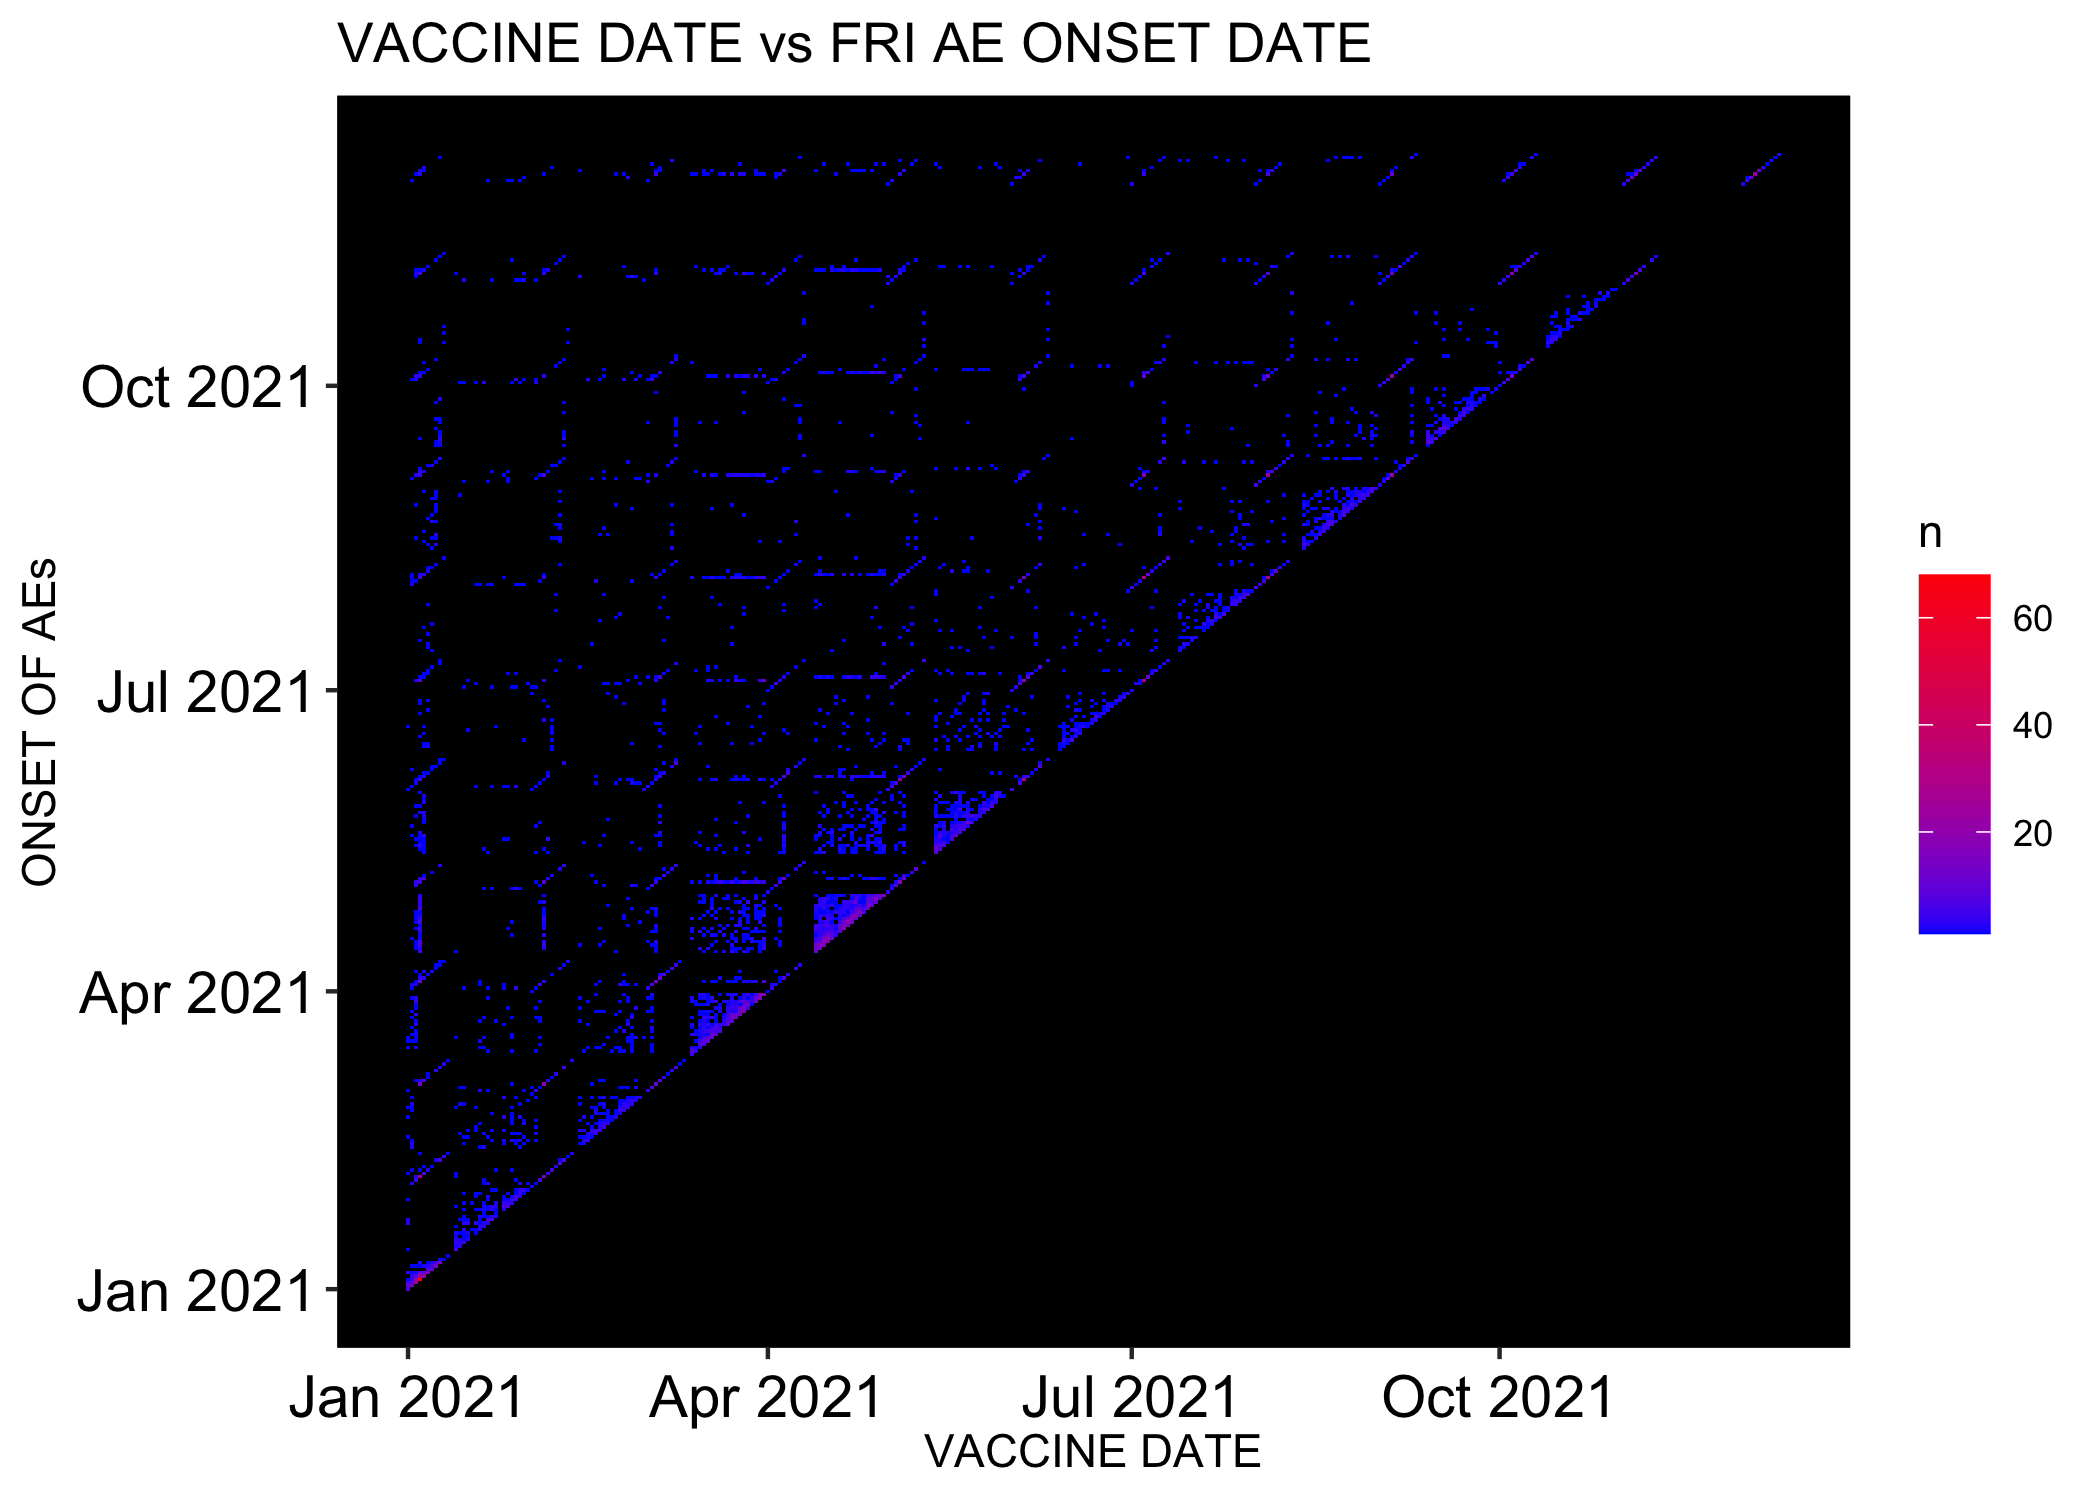
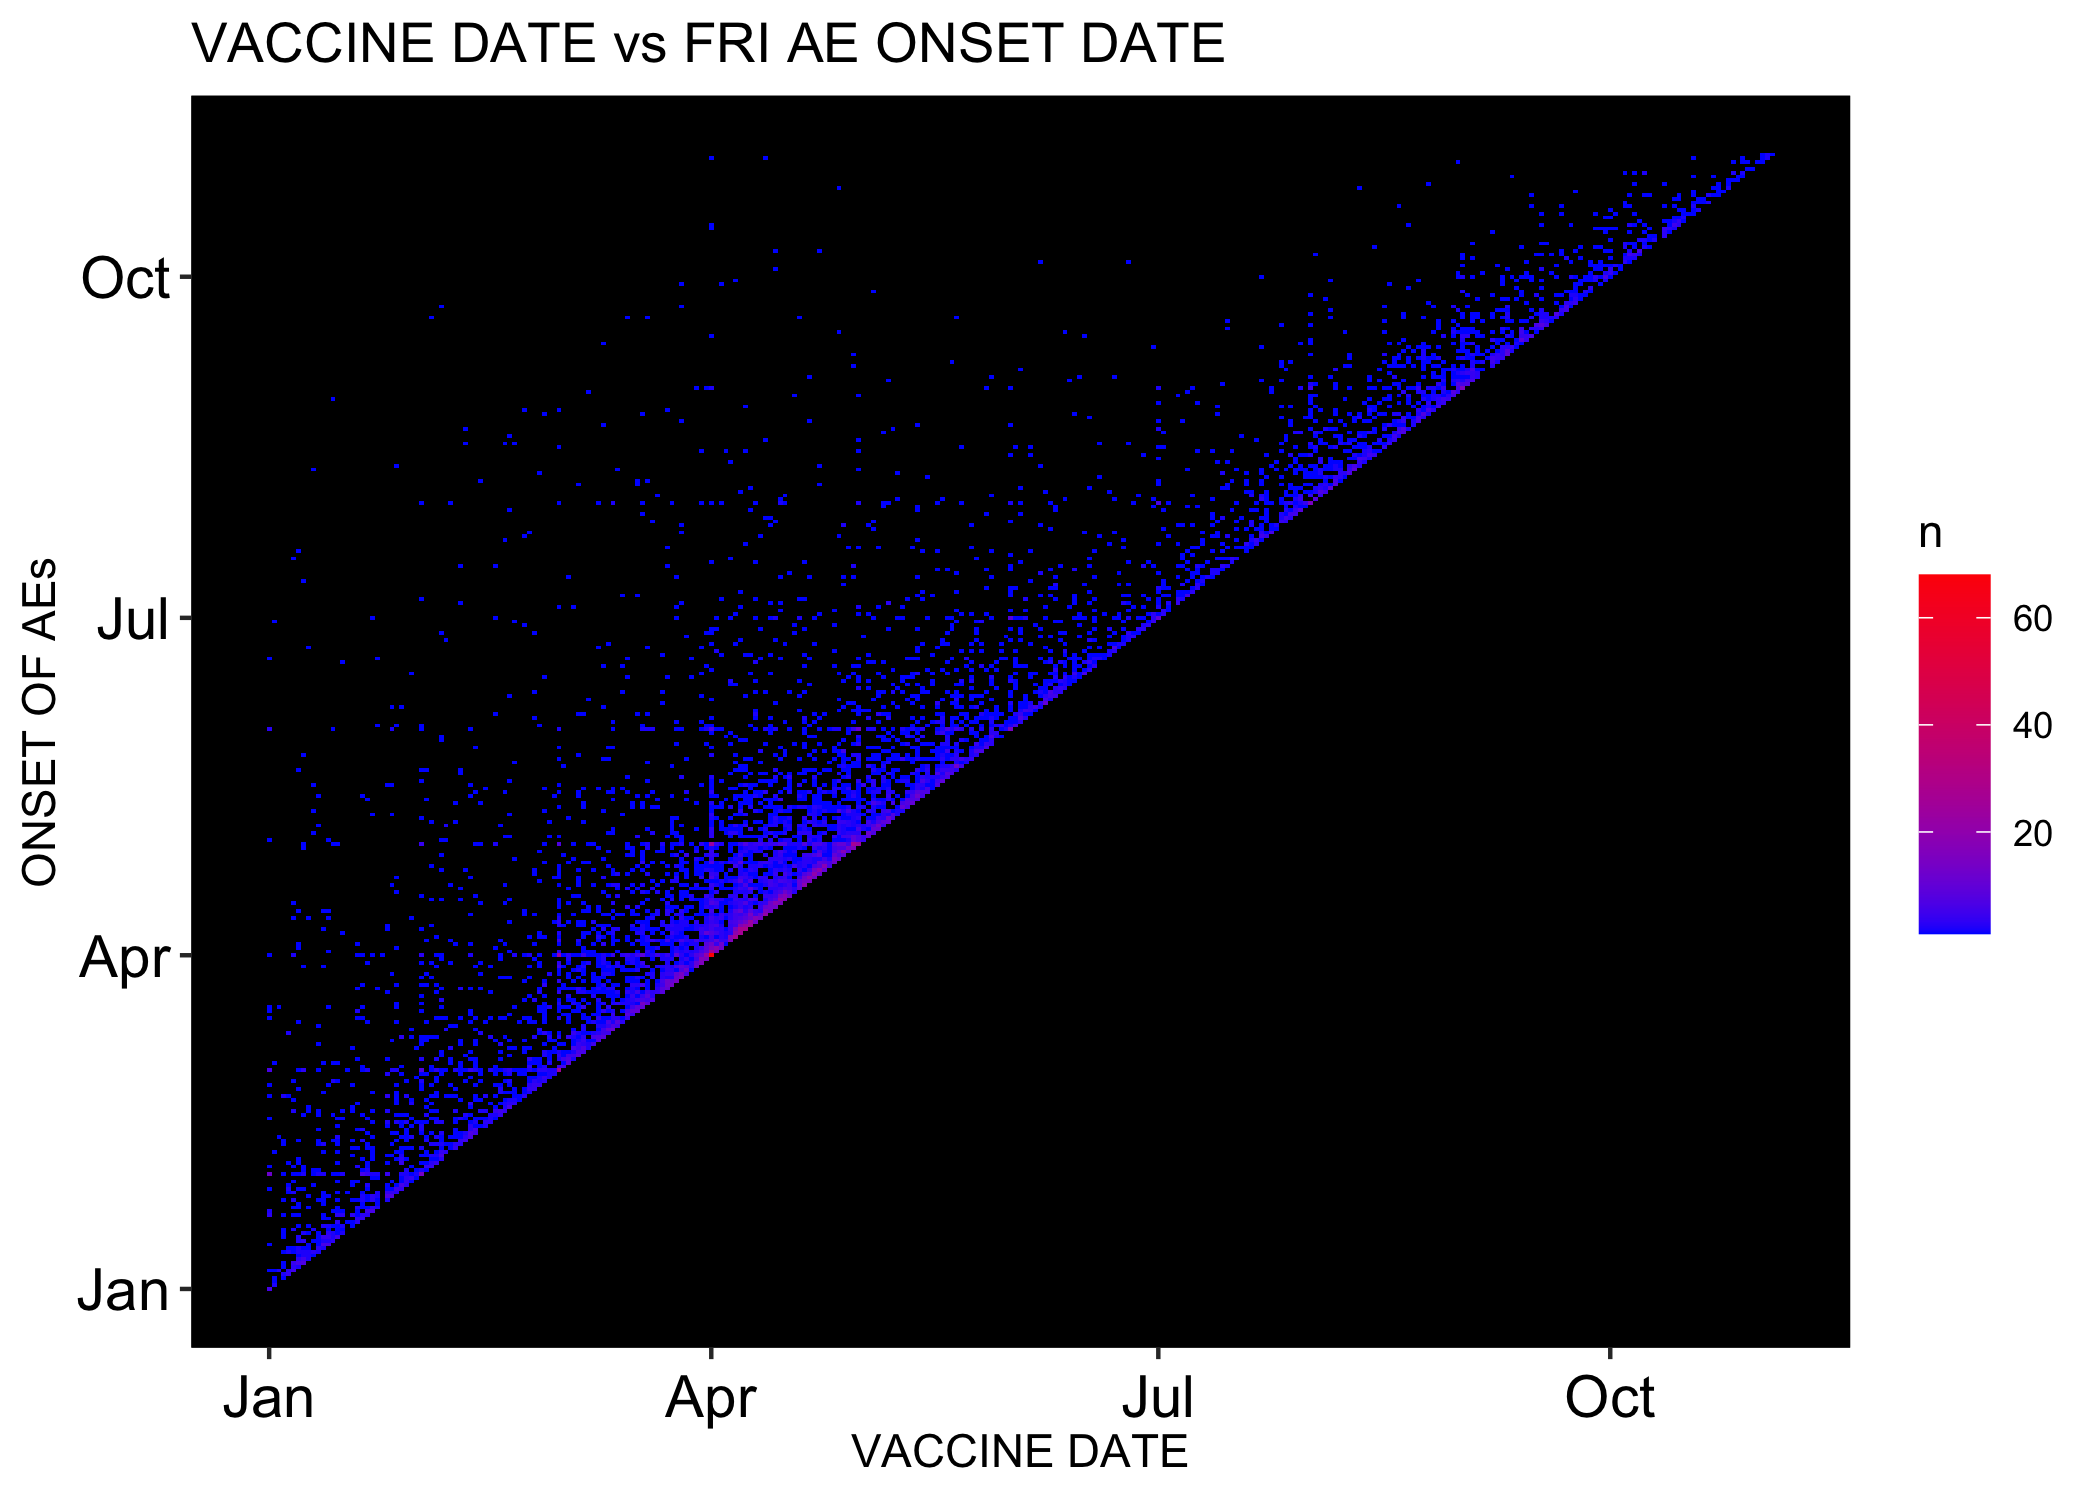
m

diff --git a/content/post/2020-12-01-r-rmarkdown/index.en.html b/content/post/2020-12-01-r-rmarkdown/index.en.html
@@ -155,9 +155,9 @@ Breakthrough COVID-19 case count AND PERCENTAGE of total ID count</p>
 <img src="Figs/unnamed-chunk-40-1.png" width="672" />
 <img src="Figs/unnamed-chunk-41-1.png" width="672" /></p>
 <div id="htmlwidget-1" style="width:672px;height:480px;" class="plotly html-widget"></div>
-<script type="application/json" data-for="htmlwidget-1">{"x":{"visdat":{"106dc6a1c47be":["function () ","plotlyVisDat"]},"cur_data":"106dc6a1c47be","attrs":{"106dc6a1c47be":{"labels":{},"values":{},"alpha_stroke":1,"sizes":[10,100],"spans":[1,20],"type":"pie"}},"layout":{"margin":{"b":40,"l":60,"t":25,"r":10},"title":"BREAKTHROUGH COVID-19 CASES BY MANUFACTURER","xaxis":{"showgrid":false,"zeroline":false,"showticklabels":false},"yaxis":{"showgrid":false,"zeroline":false,"showticklabels":false},"hovermode":"closest","showlegend":true},"source":"A","config":{"showSendToCloud":false},"data":[{"labels":["JANSSEN","MODERNA","PFIZER\\BIONTECH"],"values":[9.71,32.18,57.19],"type":"pie","marker":{"color":"rgba(31,119,180,1)","line":{"color":"rgba(255,255,255,1)"}},"frame":null}],"highlight":{"on":"plotly_click","persistent":false,"dynamic":false,"selectize":false,"opacityDim":0.2,"selected":{"opacity":1},"debounce":0},"shinyEvents":["plotly_hover","plotly_click","plotly_selected","plotly_relayout","plotly_brushed","plotly_brushing","plotly_clickannotation","plotly_doubleclick","plotly_deselect","plotly_afterplot","plotly_sunburstclick"],"base_url":"https://plot.ly"},"evals":[],"jsHooks":[]}</script>
+<script type="application/json" data-for="htmlwidget-1">{"x":{"visdat":{"11b826c5143a4":["function () ","plotlyVisDat"]},"cur_data":"11b826c5143a4","attrs":{"11b826c5143a4":{"labels":{},"values":{},"alpha_stroke":1,"sizes":[10,100],"spans":[1,20],"type":"pie"}},"layout":{"margin":{"b":40,"l":60,"t":25,"r":10},"title":"BREAKTHROUGH COVID-19 CASES BY MANUFACTURER","xaxis":{"showgrid":false,"zeroline":false,"showticklabels":false},"yaxis":{"showgrid":false,"zeroline":false,"showticklabels":false},"hovermode":"closest","showlegend":true},"source":"A","config":{"showSendToCloud":false},"data":[{"labels":["JANSSEN","MODERNA","PFIZER\\BIONTECH"],"values":[9.71,32.18,57.19],"type":"pie","marker":{"color":"rgba(31,119,180,1)","line":{"color":"rgba(255,255,255,1)"}},"frame":null}],"highlight":{"on":"plotly_click","persistent":false,"dynamic":false,"selectize":false,"opacityDim":0.2,"selected":{"opacity":1},"debounce":0},"shinyEvents":["plotly_hover","plotly_click","plotly_selected","plotly_relayout","plotly_brushed","plotly_brushing","plotly_clickannotation","plotly_doubleclick","plotly_deselect","plotly_afterplot","plotly_sunburstclick"],"base_url":"https://plot.ly"},"evals":[],"jsHooks":[]}</script>
 <div id="htmlwidget-2" style="width:672px;height:480px;" class="plotly html-widget"></div>
-<script type="application/json" data-for="htmlwidget-2">{"x":{"visdat":{"106dc33a9b6fa":["function () ","plotlyVisDat"]},"cur_data":"106dc33a9b6fa","attrs":{"106dc33a9b6fa":{"labels":{},"values":{},"alpha_stroke":1,"sizes":[10,100],"spans":[1,20],"type":"pie"}},"layout":{"margin":{"b":40,"l":60,"t":25,"r":10},"title":"BREAKTHROUGH COVID-19 CASES RESULTING IN DEATH BY AGE GROUP","xaxis":{"showgrid":false,"zeroline":false,"showticklabels":false},"yaxis":{"showgrid":false,"zeroline":false,"showticklabels":false},"hovermode":"closest","showlegend":true},"source":"A","config":{"showSendToCloud":false},"data":[{"labels":["B. 10-20","C. 20-30","D. 30-40","E. 40-50","F. 50-60","G. 60-70","H. 70-80","I. 80-90","J. 90-100","K. 100-110"],"values":[0.01,0.02,0.08,0.18,0.5,1.43,2.13,2.3,0.87,0.06],"type":"pie","marker":{"color":"rgba(31,119,180,1)","line":{"color":"rgba(255,255,255,1)"}},"frame":null}],"highlight":{"on":"plotly_click","persistent":false,"dynamic":false,"selectize":false,"opacityDim":0.2,"selected":{"opacity":1},"debounce":0},"shinyEvents":["plotly_hover","plotly_click","plotly_selected","plotly_relayout","plotly_brushed","plotly_brushing","plotly_clickannotation","plotly_doubleclick","plotly_deselect","plotly_afterplot","plotly_sunburstclick"],"base_url":"https://plot.ly"},"evals":[],"jsHooks":[]}</script>
+<script type="application/json" data-for="htmlwidget-2">{"x":{"visdat":{"11b823b2b4796":["function () ","plotlyVisDat"]},"cur_data":"11b823b2b4796","attrs":{"11b823b2b4796":{"labels":{},"values":{},"alpha_stroke":1,"sizes":[10,100],"spans":[1,20],"type":"pie"}},"layout":{"margin":{"b":40,"l":60,"t":25,"r":10},"title":"BREAKTHROUGH COVID-19 CASES RESULTING IN DEATH BY AGE GROUP","xaxis":{"showgrid":false,"zeroline":false,"showticklabels":false},"yaxis":{"showgrid":false,"zeroline":false,"showticklabels":false},"hovermode":"closest","showlegend":true},"source":"A","config":{"showSendToCloud":false},"data":[{"labels":["B. 10-20","C. 20-30","D. 30-40","E. 40-50","F. 50-60","G. 60-70","H. 70-80","I. 80-90","J. 90-100","K. 100-110"],"values":[0.01,0.02,0.08,0.18,0.5,1.43,2.13,2.3,0.87,0.06],"type":"pie","marker":{"color":"rgba(31,119,180,1)","line":{"color":"rgba(255,255,255,1)"}},"frame":null}],"highlight":{"on":"plotly_click","persistent":false,"dynamic":false,"selectize":false,"opacityDim":0.2,"selected":{"opacity":1},"debounce":0},"shinyEvents":["plotly_hover","plotly_click","plotly_selected","plotly_relayout","plotly_brushed","plotly_brushing","plotly_clickannotation","plotly_doubleclick","plotly_deselect","plotly_afterplot","plotly_sunburstclick"],"base_url":"https://plot.ly"},"evals":[],"jsHooks":[]}</script>
 <p>Female Reproductive Events count</p>
 <pre><code>##  [1] &quot;Abnormal uterine bleeding&quot;                 
 ##  [2] &quot;Afterbirth pain&quot;                           
@@ -219,7 +219,7 @@ Breakthrough COVID-19 case count AND PERCENTAGE of total ID count</p>
 ##  Chi-squared test for given probabilities
 ## 
 ## data:  FRI_CASES_VD_OD$OBSERVED
-## X-squared = 30165, df = 50, p-value &lt; 2.2e-16</code></pre>
+## X-squared = 26642, df = 50, p-value &lt; 2.2e-16</code></pre>
 <p>Cumulative FRI cases as per update - rates increasing.
 <img src="Figs/unnamed-chunk-53-1.png" width="672" />
 Heatmap showing Female Reproductive Issues wrt VAX DATE and ONSET DATE. Early April shows a clustering of intersecting points.
@@ -274,8 +274,8 @@ This is the number of kids aged 12-18 reported to VAERS with AEs, the percentage
 <pre><code>## [1] 4.186353</code></pre>
 <p>And this is a heatmap showing 1:1 correlation between onset of AE and injection date.
 <img src="Figs/unnamed-chunk-62-1.png" width="672" /></p>
-<pre><code>## # A tibble: 2,371 × 4
-## # Groups:   VAX_DATE, ONSET_DATE [2,371]
+<pre><code>## # A tibble: 3,069 × 4
+## # Groups:   VAX_DATE, ONSET_DATE [3,069]
 ##    VAX_DATE   ONSET_DATE diff_in_days     n
 ##    &lt;date&gt;     &lt;date&gt;     &lt;drtn&gt;       &lt;int&gt;
 ##  1 2021-05-14 2021-05-14 0 days         250
@@ -283,12 +283,12 @@ This is the number of kids aged 12-18 reported to VAERS with AEs, the percentage
 ##  3 2021-05-15 2021-05-15 0 days         216
 ##  4 2021-05-13 2021-05-13 0 days         206
 ##  5 2021-05-18 2021-05-18 0 days         202
-##  6 2021-07-04 2021-07-04 0 days         201
+##  6 2021-04-07 2021-04-07 0 days         201
 ##  7 2021-05-21 2021-05-21 0 days         186
-##  8 2021-06-04 2021-06-04 0 days         185
-##  9 2021-09-04 2021-09-04 0 days         182
-## 10 2021-08-04 2021-08-04 0 days         179
-## # … with 2,361 more rows</code></pre>
+##  8 2021-04-06 2021-04-06 0 days         185
+##  9 2021-04-09 2021-04-09 0 days         182
+## 10 2021-04-08 2021-04-08 0 days         179
+## # … with 3,059 more rows</code></pre>
 <p>Here we have the percentage of cardiac cases for kids aged 12-15 of the total youth population (12-18) in VAERS, the percentage of cardiac AEs that come from youths and the percentage of cardiac cases in kids aged 12-15 of the total cardiac AEs.</p>
 <pre><code>## [1] 14.71878</code></pre>
 <pre><code>## [1] 13.98723</code></pre>
@@ -383,21 +383,21 @@ This is a histogram showing death distribution according to age group. We also h
 <img src="Figs/unnamed-chunk-70-1.png" width="672" />
 Here is a plot showing clustering of reports around 0 and 1 in the context of death.
 <img src="Figs/unnamed-chunk-71-1.png" width="672" /></p>
-<pre><code>## # A tibble: 2,404 × 5
-## # Groups:   DIED, DATEDIED, VAX_DATE [2,404]
+<pre><code>## # A tibble: 5,201 × 5
+## # Groups:   DIED, DATEDIED, VAX_DATE [5,201]
 ##    DIED  DATEDIED   VAX_DATE   diff_in_days     n
 ##    &lt;chr&gt; &lt;date&gt;     &lt;date&gt;     &lt;drtn&gt;       &lt;int&gt;
-##  1 Y     2021-01-13 2021-01-13 0 days           4
-##  2 Y     2021-01-14 2021-01-13 1 days           8
-##  3 Y     2021-01-14 2021-01-14 0 days           3
-##  4 Y     2021-01-15 2021-01-13 2 days           6
-##  5 Y     2021-01-15 2021-01-14 1 days           4
-##  6 Y     2021-01-15 2021-01-15 0 days           2
-##  7 Y     2021-01-16 2021-01-13 3 days           3
-##  8 Y     2021-01-16 2021-01-14 2 days           6
-##  9 Y     2021-01-16 2021-01-15 1 days           4
-## 10 Y     2021-01-17 2021-01-13 4 days           2
-## # … with 2,394 more rows</code></pre>
+##  1 Y     2021-01-02 2021-01-02 0 days           1
+##  2 Y     2021-01-03 2021-01-02 1 days           1
+##  3 Y     2021-01-03 2021-01-03 0 days           1
+##  4 Y     2021-01-04 2021-01-02 2 days           4
+##  5 Y     2021-01-04 2021-01-03 1 days           1
+##  6 Y     2021-01-04 2021-01-04 0 days           4
+##  7 Y     2021-01-05 2021-01-02 3 days           1
+##  8 Y     2021-01-05 2021-01-03 2 days           2
+##  9 Y     2021-01-05 2021-01-04 1 days           2
+## 10 Y     2021-01-05 2021-01-05 0 days           4
+## # … with 5,191 more rows</code></pre>
 <p><img src="Figs/unnamed-chunk-72-1.png" width="672" />
 This is a histogram showing hospitalization distribution according to age group. We also have a time series plot showing clustering of data around day 1 following injection. And! We have a heatmap confirming strong correlation between injection date and hospitalization date. R=1 -&gt; perfect correlation (look for red on diagonal).
 <img src="Figs/unnamed-chunk-73-1.png" width="672" /></p>
@@ -415,4 +415,3 @@ And hey! What would this analysis be without myocarditis? This is the count of m
 <img src="Figs/unnamed-chunk-80-1.png" width="672" />
 <img src="Figs/unnamed-chunk-81-1.png" width="672" />
 Are particular VAX LOTS being distributed to partuclar states? And are they more highly associated with death? Myocarditis?</p>
-<p>LET’S LOOK AT DEATHS</p>
